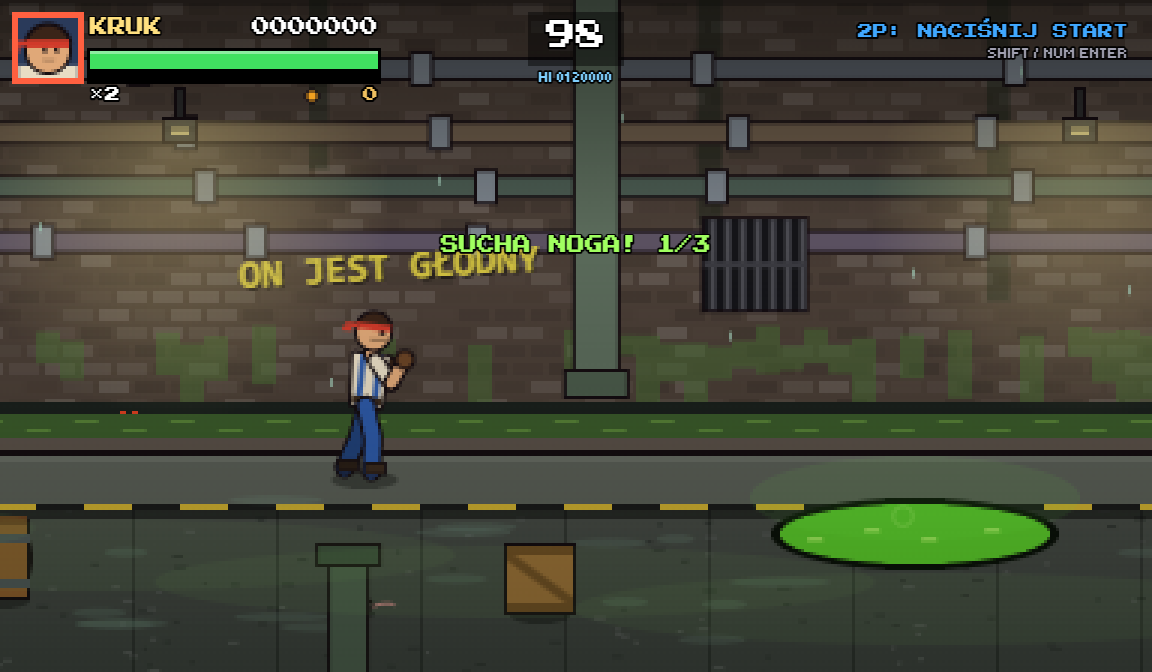
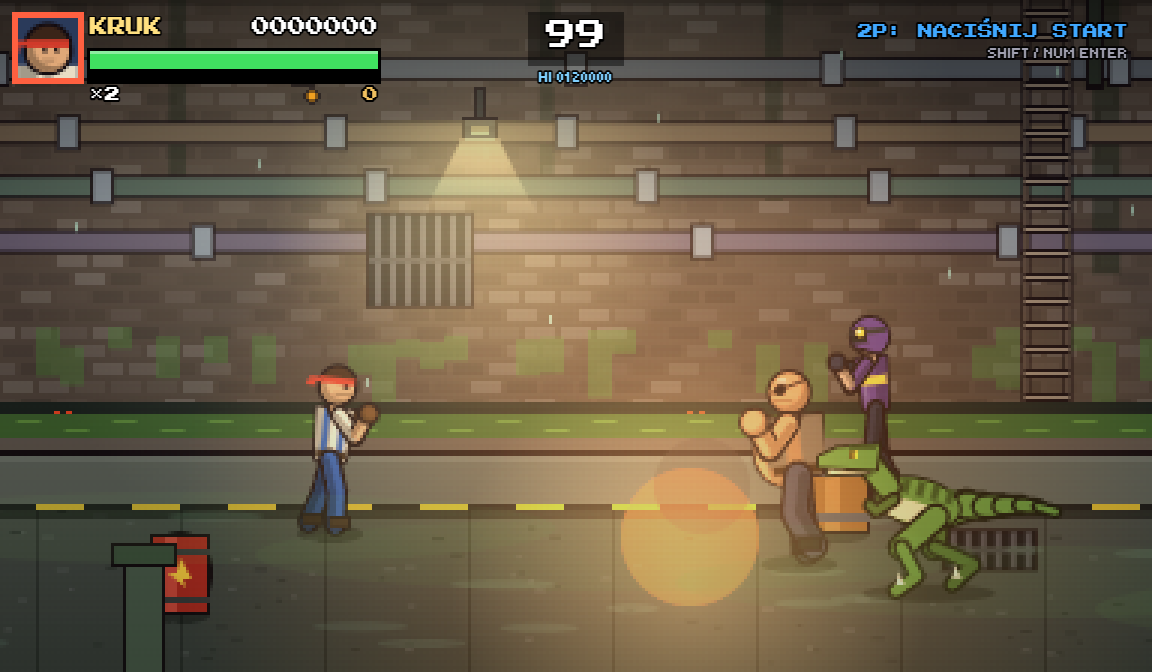
Nowe zrzuty ekranu, uzupełnione README i instrukcja, narzędzie tools/screenshots.mjs

diff --git a/README.md b/README.md
@@ -8,17 +8,22 @@ muzyka i dźwięki są generowane kodem (Canvas 2D + Web Audio).
 
 | | |
 |---|---|
-| ![Opuszczona Plaża — gra we dwóch](docs/screenshots/02-plaza.png) | ![Kanały Otchłani](docs/screenshots/03-kanaly.png) |
-| ![Komiksowy przerywnik](docs/screenshots/04-komiks.png) | ![Mapa trasy](docs/screenshots/05-mapa.png) |
-| ![Bonus: lot na pteranodonie](docs/screenshots/06-lot.png) | ![Edytor etapów](docs/screenshots/07-edytor.png) |
+| ![Opuszczona Plaża — gra we dwóch, jeździec na raptorze i podpalacz](docs/screenshots/02-plaza.png) | ![Kanały Otchłani — światło lamp i wybuchu](docs/screenshots/03-kanaly.png) |
+| ![Pociąg do Twierdzy — koparka Brygadzisty](docs/screenshots/05-pociag.png) | ![Deszcz: kałuże, smuga kopnięcia, wrogowie z dodatkami](docs/screenshots/06-deszcz.png) |
+| ![Komiksowy przerywnik](docs/screenshots/04-komiks.png) | ![Zakończenie postaci](docs/screenshots/12-zakonczenie.png) |
+| ![Obóz z ulepszeniami](docs/screenshots/07-oboz.png) | ![Mapa regionu z wyborem trasy](docs/screenshots/08-mapa.png) |
+| ![Bonus: lot nad zatoką](docs/screenshots/09-lot.png) | ![Kody z ikon](docs/screenshots/10-kody.png) |
+| ![Poradnik „Jak grać”](docs/screenshots/11-poradnik.png) | ![Edytor etapów](docs/screenshots/13-edytor.png) |
 
 ## Co jest w grze
 
-- **8 etapów** z wyborem trasy (miasto albo kopalnia), mapą regionu, epilogiem z ucieczką i dwoma zakończeniami;
-  każdy etap ma własnego bossa, muzykę, scenkę komiksową oraz losową pogodę i porę dnia.
+- **8 etapów** z wyborem trasy (miasto albo kopalnia), mapą regionu, obozem z ulepszeniami, epilogiem z ucieczką
+  i dwoma zakończeniami; każdy etap ma własnego bossa, muzykę, scenkę komiksową, wydarzenia (przypływ, fala ścieków,
+  wagoniki, ulewa) oraz losową pogodę i porę dnia, która wpływa na rozgrywkę.
 - **3 etapy bonusowe:** jazda krążownikiem szos, uwalnianie dinozaurów z zagród i lot na pteranodonie,
   plus **etap na pędzącym pociągu** z mini-bossem Brygadzistą w koparce.
 - **Zakończenie dla każdej postaci:** krótki komiks o tym, co bohater robi po wszystkim.
+- **Sekrety:** pękające ściany ze skarbami i Białym Kłem, prawdziwe zakończenie z Bursztynowym Kolosem.
 - **Gra we dwóch** (klawiatura i pady), z atakami drużynowymi: wyrzut partnera, podwójny rzut, wspólny super-ruch.
 - **4 bohaterów + 3 do odblokowania**, każdy z własną serią ciosów, specjałem, ruchem komendowym, super-ruchem i okrzykami.
 - **Walka:** kombo, chwyty i rzuty, blok i parowanie, żonglerka w powietrzu, odbicia od ścian, broń biała i rzucana,
@@ -78,7 +83,7 @@ Domyślne ustawienia są w [`config.js`](config.js); zmiany z menu OPCJE zapisuj
 
 | Klucz | Znaczenie |
 |---|---|
-| `debug` | `true` — po wyborze postaci ekran wyboru etapu (także bonusów) |
+| `debug` | `true` — po wyborze postaci ekran wyboru etapu (także bonusów; to samo daje kod z ikon) i uchwyty testowe |
 | `difficulty` | `'easy'`, `'normal'`, `'arcade'` |
 | `lives` | liczba żyć na start (1–5) |
 | `musicVolume`, `sfxVolume` | głośność 0–10 |
@@ -102,20 +107,21 @@ i eksportują do [`js/stages/custom.js`](js/stages/custom.js), który zawiera pr
 ```
 index.html              gra
 editor.html             edytor etapów
+iconcodes.html          spis kodów z ikon (dla graczy)
 export.html             odsłuch i eksport muzyki oraz efektów do WAV
 config.js               ustawienia domyślne
-src/game/               źródła silnika gry w 27 częściach (wejście, gracz, AI, tryby, HUD, mapa, pętla…)
+src/game/               źródła silnika gry w 30 częściach (wejście, gracz, AI, nowi wrogowie, tryby, HUD, kody, poradnik, pętla…)
 js/game.js              silnik zbudowany z src/game/ (plik generowany — nie edytuj ręcznie)
 js/audio.js             syntezator dźwięków, instrumenty, sekwencer, utwory, okrzyki postaci
 js/sprites.js           szkieletowe postacie, dinozaury, pojazdy, bronie, przedmioty
 js/scenery.js           elementy scenerii i fabryka etapów (warstwy paralaksy)
 js/bonus.js, flight.js  etapy bonusowe: jazda autem i lot na pteranodonie
 js/editor.js            logika edytora etapów
-js/stages/              etapy (stage1–8), areny specjalne, rozszerzenia i własne etapy
+js/stages/              etapy (stage1–8), pociąg (train.js), areny specjalne, rozszerzenia i własne etapy
 assets/audio/           wyeksportowana muzyka i efekty (WAV)
 icons/, manifest.webmanifest, sw.js   aplikacja PWA i praca offline
 tools/                  budowanie, testy automatyczne, serwer lokalny, eksport audio, generator ikon
-docs/                   instrukcja gry i zrzuty ekranu
+docs/                   instrukcja gry i zrzuty ekranu (docs/screenshots/)
 ```
 
 ## Narzędzia
@@ -128,6 +134,7 @@ Wymagają Node.js 22+; eksport audio dodatkowo przeglądarki Edge lub Chrome.
 | `node tools/tests/run.mjs [nazwa…]` | testy automatyczne w przeglądarce bez okna (wszystkie albo wybrane); zrzuty w `tools/tests/out/` |
 | `node tools/serve.mjs [port]` | lokalny serwer (domyślnie port 8080) |
 | `node tools/export-audio.mjs` | renderuje wszystkie utwory i efekty do `assets/audio/` |
+| `node tools/screenshots.mjs` | robi aktualne zrzuty ekranu do `docs/screenshots/` (README i instrukcja) |
 | `tools/icon.html` | generator ikon aplikacji |
 
 Po zmianie listy plików gry podbij wersję `CACHE` w [`sw.js`](sw.js), żeby zainstalowana aplikacja pobrała nowe pliki.
@@ -136,9 +143,11 @@ Po zmianie listy plików gry podbij wersję `CACHE` w [`sw.js`](sw.js), żeby za
 
 1. Zmieniaj pliki w `src/game/` (silnik) albo `js/` (pozostałe moduły), nie `js/game.js`.
 2. Zbuduj silnik: `node tools/build.mjs`.
-3. Uruchom testy: `node tools/tests/run.mjs` — 12 scenariuszy sprawdza m.in. wszystkie etapy i bossów, walkę,
-   pady, tryby, wydarzenia, komiks, lot, zakończenia, edytor i oprawę; test kończy się błędem także przy każdym
-   wyjątku JavaScript w grze. Testy same budują silnik przed startem.
+3. Uruchom testy: `node tools/tests/run.mjs` — 17 scenariuszy sprawdza m.in. wszystkie etapy i bossów, walkę,
+   pady, tryby, wydarzenia i pogodę, komiks, lot, zakończenia, edytor, poradnik, beczki i nowych wrogów, pociąg,
+   grafikę i tryb demo, muzykę i dźwięki oraz kody z ikon; test kończy się błędem także przy każdym wyjątku
+   JavaScript w grze. Testy same budują silnik przed startem.
+4. Po zmianach w wyglądzie odśwież zrzuty: `node tools/screenshots.mjs`.
 
 Uchwyty testowe (`window.__paleo`) są dostępne tylko z `debug: true` w `config.js` albo z parametrem adresu `?hooks=1`.
 
